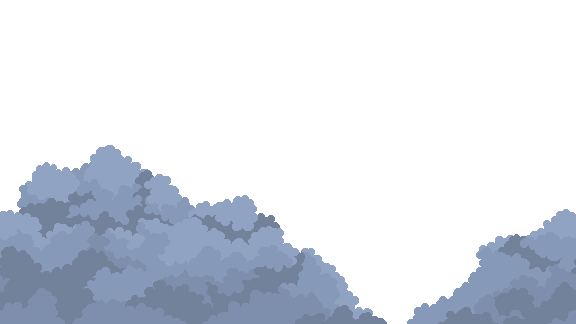
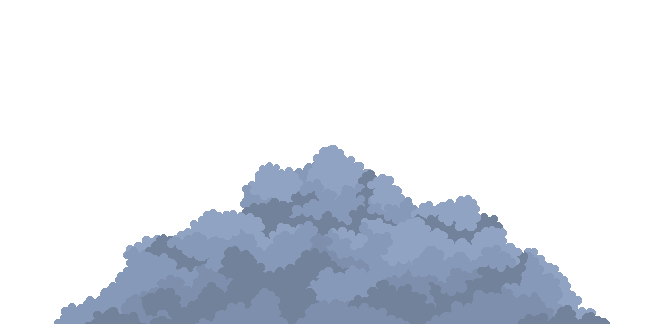
added clouds spawn

Changed region(s): [[0.0, 0.4321, 1.0, 1.0], [0.2812, 0.8642, 0.3125, 0.8951], [0.2188, 0.8951, 0.25, 0.9259]]

diff --git a/dayNight.js b/dayNight.js
@@ -1,6 +1,64 @@
-import { ctx, daySheet, height, nightSheet, scale, width } from "./main.js";
+import { cloudSheet, ctx, daySheet, height, nightSheet, randomInt, scale, tileSize, width } from "./main.js";
+import { cloudSprites } from "./sprites.js";
 
 let time = "day";
+
+// const dayClouds = [];
+// const nightClouds = [];
+
+export const clouds = [];
+
+let cloudTimer = 0;
+const spawnCloudTimer = 1.5;
+
+// export function initClouds() {
+//     dayClouds.push(dayCloud1Sheet);
+//     dayClouds.push(dayCloud2Sheet);
+//     dayClouds.push(dayCloud3Sheet);
+// };
+
+// export const cloudMap = [
+//     dayCloudSprites["cloud1"],
+//     dayCloudSprites["cloud2"],
+//     dayCloudSprites["cloud3"]
+// ]
+
+export function initClouds() {
+    for (let i = 0; i < 6; i++) {
+        randomCloudSpawner(randomInt(0, width));
+    }
+}
+
+export function randomCloudSpawner(startX) {
+    let randomIndex;
+    if (time === "day") {
+        randomIndex = randomInt(0, cloudSprites.length - 1);
+    }
+    else {
+        return;
+    }
+
+    // let cloudSheet = time === "day" ? dayClouds[randomIndex] : nightClouds[randomIndex];
+
+    let sprite = cloudSprites[randomIndex];
+
+    const x = startX ?? width + 150 * scale;
+    const yOffset = randomInt(5 * scale, 20 * scale);
+    const y = yOffset;
+    const sizeScale = 0.5 + Math.random() * 1.5;
+    const speed = randomInt(30, 60);
+
+    clouds.push({
+        time: time,
+        // cloudSheet: cloudSheet,
+        sprite: sprite,
+        sizeScale: sizeScale,
+        speed: speed,
+        x: x,
+        y: y,
+    });
+    console.log(clouds);
+}
 
 export function drawSky() {
     let sheet;
@@ -20,4 +78,45 @@ export function drawSky() {
         0, 0, imageWidth, imageHeight,
         0, 0, width, height
     );
+}
+
+export function updateCloud(delta) {
+    cloudTimer += delta;
+    if (cloudTimer > spawnCloudTimer) {
+        cloudTimer = 0;
+        randomCloudSpawner();
+    }
+
+    for (let i = 0; i < clouds.length; i++) {
+        const cloud = clouds[i];
+
+        if (time !== cloud.time) {
+            clouds.splice(i, 1);
+            i--;
+            continue;
+        }
+        cloud.x -= delta * cloud.speed * scale;
+
+        if (cloud.x + 200 * scale < 0) {
+            clouds.splice(i, 1);
+            i--;
+        }
+    }
+}
+
+export function drawClouds() {
+    for (let i = 0; i < clouds.length; i++) {
+        const cloud = clouds[i];
+
+        const cloudW = cloud.sprite.w * scale * cloud.sizeScale;
+        const cloudH = (cloud.sprite.h / cloud.sprite.w) * cloudW;
+
+        ctx.globalAlpha = 0.85;
+        ctx.drawImage(
+            cloudSheet,
+            cloud.sprite.x, cloud.sprite.y, cloud.sprite.w, cloud.sprite.h,
+            cloud.x, cloud.y, cloudW, cloudH
+        );
+        ctx.globalAlpha = 1;
+    }
 }

diff --git a/castle.js b/castle.js
@@ -1,5 +1,5 @@
-import { castleSheet, ctx, scale } from "./main.js";
-import { castle } from "./sprites.js";
+import { castleSheet, ctx, flagSheet, scale, tileSize } from "./main.js";
+import { castle, flag } from "./sprites.js";
 
 export function drawCastle() {
     let sprite = castle["tower"];
@@ -9,6 +9,7 @@ export function drawCastle() {
         sprite.x, sprite.y, sprite.w, sprite.h,
         10 * scale, 30 * scale, sprite.w * scale, sprite.h * scale
     );
+
 
     sprite = castle["room"];
 
@@ -22,6 +23,14 @@ export function drawCastle() {
 
     x += sprite.w * scale;
 
+    sprite = castle["grass"];
+
+    ctx.drawImage(
+        castleSheet,
+        sprite.x, sprite.y, sprite.w, sprite.h,
+        1 * scale, 58 * scale, sprite.w * scale, sprite.h * scale
+    );
+
 
     sprite = castle["castle"];
 
@@ -29,5 +38,45 @@ export function drawCastle() {
         castleSheet,
         sprite.x, sprite.y, sprite.w, sprite.h,
         x - 5 * scale, 50 * scale, sprite.w * scale, sprite.h * scale
+    );
+}
+
+
+let currentFlag1Frame = 0;
+let currentFlag2Frame = 6;
+let flag1Timer = 0;
+let flag2Timer = 0;
+const maxFlagFrame = 13;
+const flagFrameTimer = 0.1;
+
+export function updateFlag(delta) {
+    flag1Timer += delta;
+    flag2Timer += delta;
+
+    if(flag1Timer >= flagFrameTimer){
+        flag1Timer = 0;
+        currentFlag1Frame = (currentFlag1Frame + 1) % maxFlagFrame;
+    }
+    if(flag2Timer >= flagFrameTimer){
+        flag2Timer = 0;
+        currentFlag2Frame = (currentFlag2Frame + 1) % maxFlagFrame;
+    }
+}
+
+export function drawFlag() {
+    let sprite = flag["frames"][currentFlag1Frame];
+
+    ctx.drawImage(
+        flagSheet,
+        (sprite.col - 1) * tileSize, (sprite.row - 1) * tileSize, tileSize, tileSize,
+        32 * scale, 35 * scale, tileSize * scale, tileSize * scale
+    );
+
+    sprite = flag["frames"][currentFlag2Frame];
+
+    ctx.drawImage(
+        flagSheet,
+        (sprite.col - 1) * tileSize, (sprite.row - 1) * tileSize, tileSize, tileSize,
+        80 * scale, 35 * scale, tileSize * scale, tileSize * scale
     );
 }

diff --git a/main.js b/main.js
@@ -1,5 +1,6 @@
 import { drawCastle } from "./castle.js";
-import { drawSky } from "./dayNight.js";
+import { drawSky, initClouds } from "./dayNight.js";
+import { gameLoop } from "./game.js";
 
 export const canvas = document.getElementById('game-canvas');
 export const ctx = canvas.getContext('2d');
@@ -7,12 +8,17 @@ export const ctx = canvas.getContext('2d');
 export let width = 0;
 export let height = 0;
 export let scale = 1;
+export let dpr = 1;
 
 export const tileSize = 16;
 
+export function randomInt(min, max) {
+    return Math.floor(Math.random() * (max - min + 1)) + min;
+}
+
 export function resizeCanvas() {
 
-    const dpr = window.devicePixelRatio || 1;
+    dpr = window.devicePixelRatio || 1;
 
     width = window.innerWidth;
     height = window.innerHeight;
@@ -25,30 +31,48 @@ export function resizeCanvas() {
 
     ctx.setTransform(dpr, 0, 0, dpr, 0, 0);
 
-    scale = height / 225;
+    scale = Math.min(height / 225, width / 400);
+    scale = Math.round(scale);
+    if (scale < 1) {
+        scale = 1;
+    }
 
     ctx.imageSmoothingEnabled = false;
+
+    console.log("resize", scale);
 
 }
 
 let count = 0;
-const maxCount = 3;
+const maxCount = 5;
 
 export function onImageLoad() {
     count++;
     if (count >= maxCount) {
         console.log("started");
-        drawSky();
-        drawCastle();
+        initClouds();
+        requestAnimationFrame(gameLoop);
     }
 }
 
 window.addEventListener('resize', resizeCanvas);
-resizeCanvas();
 
+resizeCanvas();
 
 export const daySheet = new Image();
 daySheet.src = "assets/day_1.png";
+
+export const cloudSheet = new Image();
+cloudSheet.src = "assets/Clouds V2.png"
+
+// export const dayCloud1Sheet = new Image();
+// dayCloud1Sheet.src = "assets/day_3.png";
+
+// export const dayCloud2Sheet = new Image();
+// dayCloud2Sheet.src = "assets/day_4.png";
+
+// export const dayCloud3Sheet = new Image();
+// dayCloud3Sheet.src = "assets/day_5.png";
 
 export const nightSheet = new Image();
 nightSheet.src = "assets/night_1.png";
@@ -56,6 +80,15 @@ nightSheet.src = "assets/night_1.png";
 export const castleSheet = new Image();
 castleSheet.src = "assets/Castle Tileset.png";
 
+export const flagSheet = new Image();
+flagSheet.src = "assets/flag sprite-Sheet.png";
+
+
 daySheet.onload = onImageLoad;
 nightSheet.onload = onImageLoad;
 castleSheet.onload = onImageLoad;
+flagSheet.onload = onImageLoad;
+cloudSheet.onload = onImageLoad;
+// dayCloud1Sheet.onload = onImageLoad;
+// dayCloud2Sheet.onload = onImageLoad;
+// dayCloud3Sheet.onload = onImageLoad;

diff --git a/sprites.js b/sprites.js
@@ -1,11 +1,33 @@
 export const castle = {
     castle: { x: 3, y: 2, w: 74, h: 30 },
     room: { x: 144, y: 12, w: 32, h: 20 },
-    tower: { x: 29, y: 37, w: 19, h: 43 }
+    tower: { x: 29, y: 37, w: 19, h: 43 },
+    grass: { x: 50, y: 58, w: 46, h: 22 }
 }
 
 export const flag = {
     frames: [
-
+        { row: 1, col: 1 },
+        { row: 2, col: 1 },
+        { row: 3, col: 1 },
+        { row: 4, col: 1 },
+        { row: 5, col: 1 },
+        { row: 6, col: 1 },
+        { row: 7, col: 1 },
+        { row: 8, col: 1 },
+        { row: 9, col: 1 },
+        { row: 10, col: 1 },
+        { row: 11, col: 1 },
+        { row: 12, col: 1 },
+        { row: 13, col: 1 }
     ]
-} 
+}
+
+export const cloudSprites = [
+    { x: 8, y: 13, w: 60, h: 35 },
+    { x: 81, y: 24, w: 30, h: 20 },
+    { x: 8, y: 55, w: 34, h: 23 },
+    { x: 67, y: 55, w: 50, h: 29 },
+    { x: 16, y: 86, w: 41, h: 28 },
+    { x: 72, y: 93, w: 31, h: 24 }
+]

diff --git a/game.js b/game.js
@@ -1,0 +1,21 @@
+import { drawCastle, drawFlag, updateFlag } from "./castle.js";
+import { drawClouds, drawSky, updateCloud } from "./dayNight.js";
+import { ctx, dpr } from "./main.js";
+
+let lastTime = 0;
+
+export function gameLoop(currentTime) {
+    let delta = (currentTime - lastTime) / 1000;
+    lastTime = currentTime;
+    if (delta > 0.1) delta = 0.1;
+
+    drawSky();
+    drawClouds();
+    drawFlag();
+    drawCastle();
+
+    updateFlag(delta);
+    updateCloud(delta);
+
+    requestAnimationFrame(gameLoop);
+}